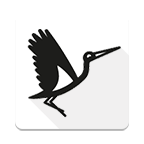
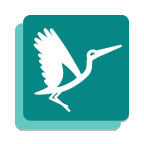
feat(images): add new iconography

diff --git a/Gruntfile.js b/Gruntfile.js
@@ -8,7 +8,7 @@
 module.exports = function wrapper(grunt) {
   var serveStatic = require('serve-static');
   var markdownlint = require("markdownlint");
-  var remote_user = grunt.option('remote');
+  //var remote_user = grunt.option('remote');
   var commit_message = grunt.option('message');
   var feature = grunt.option('feature');
   var feature_branch = 'feature-' + feature;
